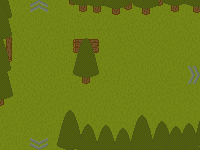
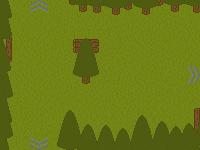
I don't know what I changed

Changed region(s): [[0.0, 0.64, 0.09, 1.0], [0.96, 0.72, 1.0, 0.88]]

diff --git a/Gamestates.js b/Gamestates.js
@@ -32,7 +32,7 @@ function LoadingGamestate(){
 			//gamestate = gamestates.intro;
 			
 			//for testing purposes, you can skip to a gamestate by putting it here
-			gamestate = gamestates.leftPath;
+			gamestate = gamestates.forest;
 		}
 	}
 	
@@ -481,11 +481,16 @@ function RightPath(){
 
 
 function Forest(){
-	this.enemies = [];
+	this.enemies = [new Saxaphone(700,350), new Saxaphone(300,100), new Slime(600,300), new Slime(600,350)];
 	this.items = [];
 	this.walls = [
 		new Box(276,0,524,12), //top wall
 		new Box(0,0,44,600), //left wall
+		new Box(292,152,104,160), //tree
+		new Box(228,496,572,104), // bottom wall
+		new Box(248,440,64,56), // left tree
+		new Box(544,460,48,36), //right tree
+		new Box(776,432,30,200), //Right Log
 		];
 	
 	this.rightDoor = new Box(800,0,20,600);
@@ -531,6 +536,71 @@ function Forest(){
 	
 	this.draw = function(){
 		ctx.drawImage(images.forest,0,0,200,150,0,0,800,600);
+		var drw = this.enemies.slice();
+		drw.push(player);
+		sortEnemies(drw);
+		
+		for(var i = 0; i < this.items.length; i++){
+			this.items[i].draw();
+		}
+		
+		for(var i = 0; i < drw.length; i++){
+			drw[i].draw();
+		}
+		
+		for(var i = 0; i < this.walls.length; i++){
+			this.walls[i].draw();
+		}
+		
+		player.drawHUD();
+	};
+}
+
+
+
+
+
+function RenfestEntrance(){
+	this.enemies = [];
+	this.items = [];
+	this.walls = [];
+	
+	this.update = function(time){
+		
+		player.update(time);
+		
+		for(var i = 0; i < this.enemies.length; i ++){
+			this.enemies[i].update(time);
+		}
+		
+		for(var i = 0; i < this.walls.length; i++){
+			
+			for(var e = 0; e < this.enemies.length; e++){
+				if(collide(this.enemies[e],this.walls[i]))
+					adjust(this.enemies[e],this.walls[i]);
+			}
+			
+			if(collide(player,this.walls[i]))
+				adjust(player,this.walls[i]);
+		}
+		
+		for(var i = 0; i < this.items.length; i++){
+			if(collide(player, this.items[i]) ){
+				var del = this.items[i].onCollide();
+				if(del){
+					this.items.splice(i,1);
+					i--;
+				}
+			}
+		}
+		
+		//doors
+		
+		cleanUpBodies();
+	};
+	
+	this.draw = function(){
+		//ctx.drawImage( ,0,0,200,150,0,0,800,600);
 		var drw = this.enemies.slice();
 		drw.push(player);
 		sortEnemies(drw);
